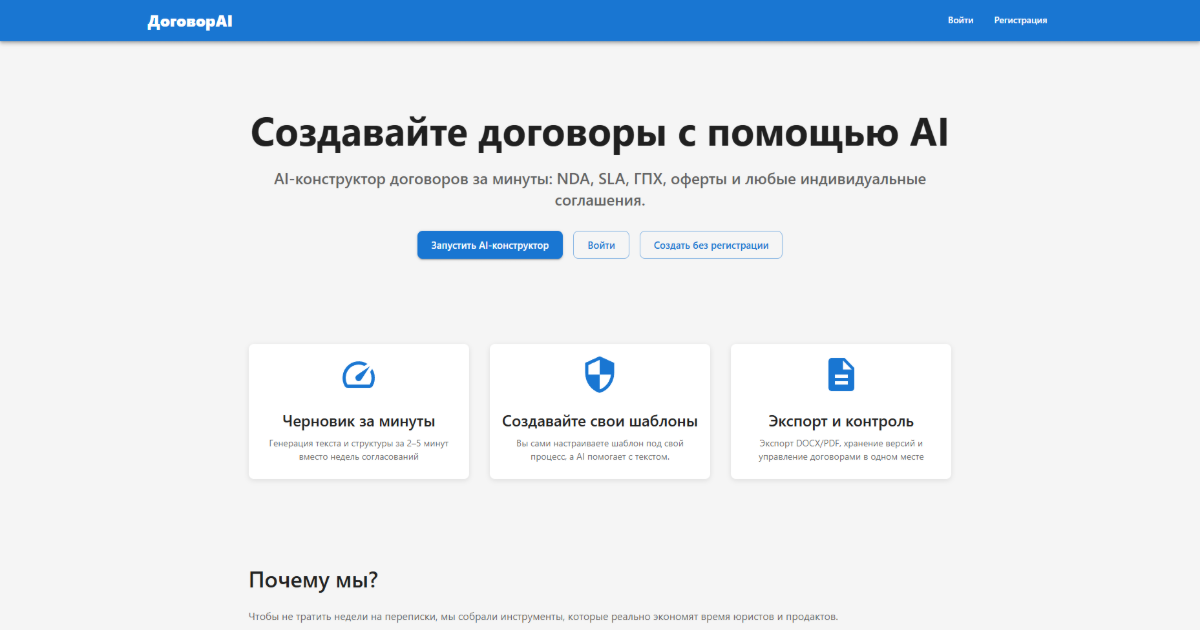
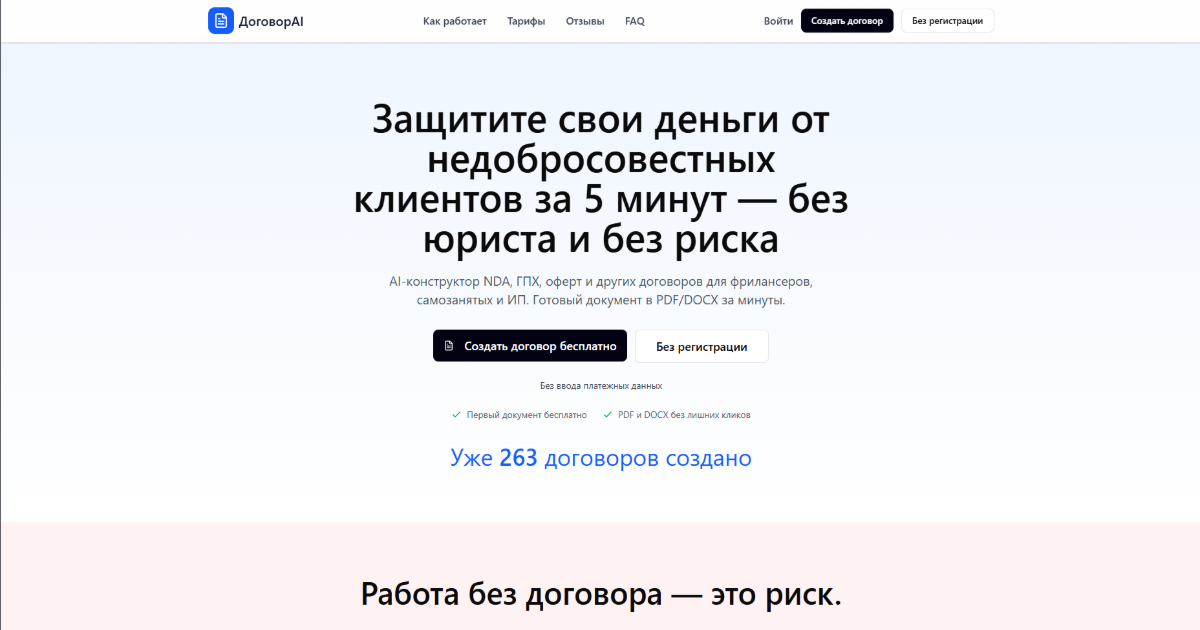
some seo

diff --git a/frontend/index.html b/frontend/index.html
@@ -9,16 +9,16 @@
   <link rel="apple-touch-icon" sizes="180x180" href="/favicon/apple-touch-icon.png" />
   <link rel="manifest" href="/favicon/site.webmanifest" />
   <meta name="viewport" content="width=device-width, initial-scale=1.0" />
-  <title>AI-конструктор договоров: NDA, SLA и любые соглашения</title>
+  <title>AI-конструктор договоров онлайн — создать NDA, SLA, оферты за 2 минуты</title>
   <meta name="description"
-    content="Создавайте NDA, SLA и другие договоры с помощью AI за минуты: редактор, шаблоны, экспорт в DOCX/PDF." />
+    content="Создавайте договоры онлайн с помощью AI: NDA, SLA, подряды и оферты. Готовый документ за 2 минуты, экспорт в DOCX и PDF." />
   <meta name="keywords"
-    content="AI конструктор договоров, NDA, SLA, договор о неразглашении, сервис соглашений, генератор контрактов, шаблоны договоров, экспорт DOCX, экспорт PDF, ГПХ, договор подряда, оферта, договор оказания услуг, ИИ договоры, юридические документы, онлайн договоры, договор с ИИ, автоматические договоры, NDA шаблон, SLA шаблон, конфиденциальность, договор о неразглашении коммерческой тайны, ДоговорAI, dogovarai, создание договоров онлайн, договоры для фриланса, договоры для ИП, договоры для бизнеса, юридические шаблоны, генератор юридических документов, AI договоры, нейросеть договоры, договор субподряда, договор возмездного оказания услуг, публичная оферта, договор на разработку, договор на услуги, договор подряда с физлицом, шаблон NDA бесплатно, шаблон SLA" />
-  <meta name="robots" content="index,follow" />
+    content="AI конструктор договоров, генератор договоров, создание договоров онлайн, договор с ИИ, юридические документы онлайн, генератор NDA, генератор SLA, шаблон договора подряда, договор оказания услуг, публичная оферта, договор для фрилансера, договор с самозанятым, договор ИП с физлицом, автоматическое создание договоров, онлайн генератор контрактов" />
+  <meta name="robots" content="index,follow,max-image-preview:large" />
   <meta name="theme-color" content="#0b5394" />
   <link rel="canonical" href="https://dogovarai.ru" />
   <meta property="og:type" content="website" />
-  <meta property="og:title" content="AI-конструктор договоров: NDA, SLA и любые соглашения" />
+  <meta property="og:title" content="Создай договор за 2 минуты с AI — NDA, SLA, оферты" />
   <meta property="og:description" content="AI-конструктор договоров: быстрый редактор, шаблоны и экспорт DOCX/PDF." />
   <meta property="og:url" content="https://dogovarai.ru" />
   <meta property="og:site_name" content="ДоговорAI" />
@@ -31,6 +31,17 @@
   <meta name="twitter:description" content="Создавайте юридические договоры за минуты с помощью AI." />
   <meta name="twitter:image" content="https://dogovarai.ru/og-image.png" />
   <meta name="twitter:image:alt" content="AI-конструктор договоров ДоговорAI" />
+  <script type="application/ld+json">
+    {
+      "@context": "https://schema.org",
+      "@type": "WebApplication",
+      "name": "ДоговорAI",
+      "url": "https://dogovarai.ru",
+      "applicationCategory": "BusinessApplication",
+      "operatingSystem": "Web",
+      "description": "AI-конструктор договоров для создания NDA, SLA и других документов онлайн"
+    }
+    </script>
 </head>
 
 <body>

diff --git a/frontend/src/pages/Landing.tsx b/frontend/src/pages/Landing.tsx
@@ -44,9 +44,9 @@ export const Landing = () => {
   return (
     <Layout fullWidth>
       <PageMeta
-        title="AI-конструктор договоров: NDA, SLA, ГПХ и любые соглашения"
-        description="Создавайте договоры с помощью AI за минуты: NDA, SLA, ГПХ, оферты и индивидуальные соглашения с экспортом DOCX/PDF."
-        keywords="AI конструктор договоров, NDA, SLA, договор о неразглашении, сервис соглашений, генератор контрактов, шаблоны договоров, экспорт DOCX, экспорт PDF, ГПХ, договор подряда, оферта, договор оказания услуг, ИИ договоры, юридические документы, онлайн договоры, договор с ИИ, автоматические договоры, NDA шаблон, SLA шаблон, конфиденциальность, договор о неразглашении коммерческой тайны, ДоговорAI, dogovarai, создание договоров онлайн, договоры для фриланса, договоры для ИП, договоры для бизнеса, юридические шаблоны, генератор юридических документов, AI договоры, нейросеть договоры, договор субподряда, договор возмездного оказания услуг, публичная оферта, договор на разработку, договор на услуги, договор подряда с физлицом, шаблон NDA бесплатно, шаблон SLA"
+        title="AI-конструктор договоров онлайн — создать NDA, SLA, оферты за 2 минуты"
+        description="Создавайте договоры онлайн с помощью AI: NDA, SLA, подряды и оферты. Готовый документ за 2 минуты, экспорт в DOCX и PDF."
+        keywords="AI конструктор договоров, генератор договоров, создание договоров онлайн, договор с ИИ, юридические документы онлайн, генератор NDA, генератор SLA, шаблон договора подряда, договор оказания услуг, публичная оферта, договор для фрилансера, договор с самозанятым, договор ИП с физлицом, автоматическое создание договоров, онлайн генератор контрактов"
       />
 
       <HeroSection contractsTotal={contractsTotal} onPrimary={handlePrimary} onGuest={handleGuest} />
